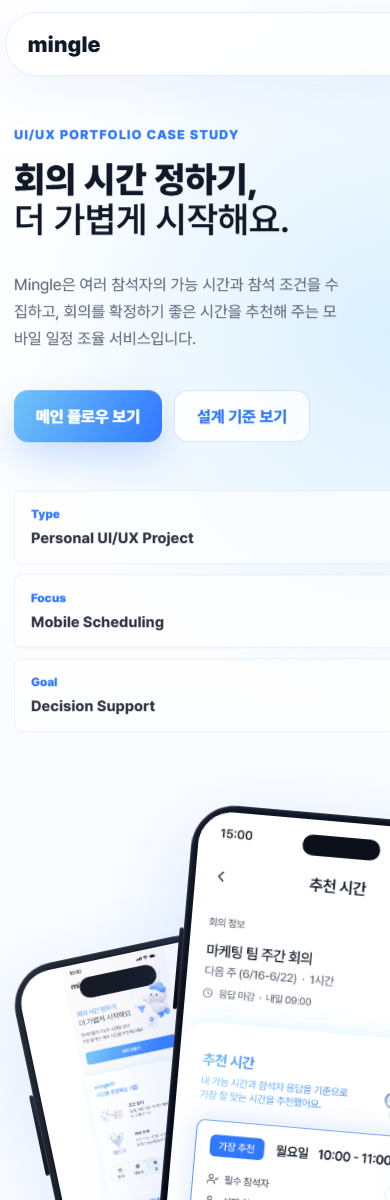
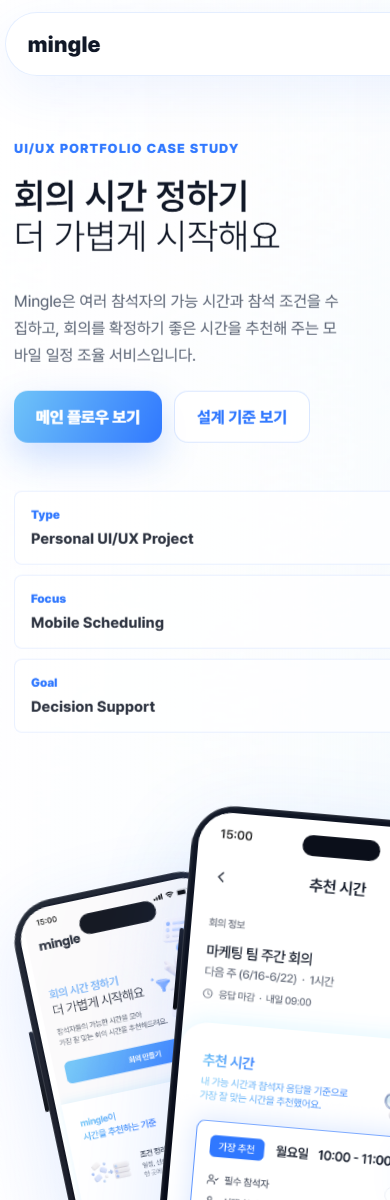
261013 21:35

diff --git a/script.js b/script.js
@@ -38,6 +38,7 @@ let activeFlowIndex = -1;
 let lenis = null;
 let flowScrollTicking = false;
 let heroScrollTicking = false;
+let textFloatTicking = false;
 let flowStageProgress = 0;
 let flowScreenProgress = 0;
 
@@ -144,15 +145,109 @@ const revealObserver = new IntersectionObserver(
     entries.forEach((entry) => {
       if (entry.isIntersecting) {
         entry.target.classList.add("visible");
+        entry.target.querySelectorAll(".splitText .splitChar").forEach((char) => {
+          char.style.animation = "none";
+          char.offsetHeight;
+          char.style.animation = "";
+        });
       } else {
         entry.target.classList.remove("visible");
       }
     });
   },
-  { threshold: 0.14 },
+  { threshold: 0.14, rootMargin: "0px 0px -8% 0px" },
 );
 
 document.querySelectorAll(".revealItem").forEach((item) => revealObserver.observe(item));
+
+function prepareSplitText(element) {
+  if (!element || element.dataset.splitReady === "true") return;
+  const nodes = [...element.childNodes];
+  const fragment = document.createDocumentFragment();
+  let charIndex = 0;
+
+  const appendSplitText = (text, target) => {
+    const lines = text.split("\n");
+    lines.forEach((line, lineIndex) => {
+      if (lineIndex > 0) target.appendChild(document.createElement("br"));
+      const words = line.split(/(\s+)/);
+
+      words.forEach((word) => {
+        if (!word) return;
+        if (/^\s+$/.test(word)) {
+          const space = document.createElement("span");
+          space.className = "splitSpace";
+          space.setAttribute("aria-hidden", "true");
+          target.appendChild(space);
+          return;
+        }
+
+        const wordSpan = document.createElement("span");
+        wordSpan.className = "splitWord";
+        [...word].forEach((char) => {
+          const charSpan = document.createElement("span");
+          charSpan.className = "splitChar";
+          charSpan.style.setProperty("--char-index", charIndex);
+          charSpan.setAttribute("aria-hidden", "true");
+          charSpan.textContent = char;
+          wordSpan.appendChild(charSpan);
+          charIndex += 1;
+        });
+        target.appendChild(wordSpan);
+      });
+    });
+  };
+
+  nodes.forEach((node) => {
+    if (node.nodeType === Node.ELEMENT_NODE && node.tagName === "BR") {
+      fragment.appendChild(node.cloneNode());
+      return;
+    }
+
+    if (node.nodeType === Node.ELEMENT_NODE) {
+      const wrapper = node.cloneNode(false);
+      appendSplitText(node.textContent || "", wrapper);
+      fragment.appendChild(wrapper);
+      return;
+    }
+
+    appendSplitText(node.textContent || "", fragment);
+  });
+
+  const label = element.textContent.trim();
+  element.setAttribute("aria-label", label);
+  element.textContent = "";
+  element.appendChild(fragment);
+  element.classList.add("splitText", "scrollFloat");
+  element.dataset.splitReady = "true";
+}
+
+document
+  .querySelectorAll("#flowTitle")
+  .forEach(prepareSplitText);
+
+function updateScrollFloatText() {
+  textFloatTicking = false;
+  if (prefersReducedMotion) return;
+
+  document.querySelectorAll(".scrollFloat").forEach((element) => {
+    const rect = element.getBoundingClientRect();
+    const center = rect.top + rect.height / 2;
+    const viewportCenter = window.innerHeight / 2;
+    const distance = (center - viewportCenter) / Math.max(1, window.innerHeight);
+    const shift = Math.max(-18, Math.min(18, distance * -34));
+    element.style.setProperty("--float-y", `${shift.toFixed(2)}px`);
+  });
+}
+
+function requestTextFloatUpdate() {
+  if (textFloatTicking) return;
+  textFloatTicking = true;
+  requestAnimationFrame(updateScrollFloatText);
+}
+
+window.addEventListener("scroll", requestTextFloatUpdate, { passive: true });
+lenis?.on("scroll", requestTextFloatUpdate);
 
 function updateFlowByScroll() {
   flowScrollTicking = false;
@@ -205,7 +300,7 @@ function syncFlowScreenScroll() {
   const maxScroll = flowViewport.scrollHeight - flowViewport.clientHeight;
   if (maxScroll <= 0) return;
 
-  const delayedProgress = (flowScreenProgress - 0.36) / 0.18;
+  const delayedProgress = (flowScreenProgress - 0.38) / 0.28;
   const clamped = Math.min(1, Math.max(0, delayedProgress));
   const eased = clamped * clamped * (3 - 2 * clamped);
 
@@ -278,3 +373,4 @@ window.addEventListener(
 
 setActiveFlow(0);
 syncHeroPhoneScroll();
+updateScrollFloatText();

diff --git a/style.css b/style.css
@@ -182,6 +182,7 @@ button { font: inherit; }
   font-size: clamp(30px, 3.4vw, 48px);
   line-height: 1.16;
   font-weight: 800;
+  text-align: left;
   word-break: keep-all;
   text-wrap: balance;
 }
@@ -223,12 +224,13 @@ button { font: inherit; }
   margin: 0;
   font-size: clamp(42px, 5.05vw, 68px);
   line-height: 1.06;
-  font-weight: 850;
+  font-weight: 600;
+  text-align: left;
   word-break: keep-all;
   text-wrap: balance;
 }
-.heroTitle span {
-  font-weight: 520;
+.heroTitle > span:not(.splitWord) {
+  font-weight: 300;
 }
 .heroLead {
   max-width: 680px;
@@ -742,6 +744,7 @@ button { font: inherit; }
   margin: 14px 0 0;
   font-size: clamp(22px, 2.35vw, 32px);
   line-height: 1.2;
+  text-align: left;
   word-break: keep-all;
 }
 .flowStep > p {
@@ -785,7 +788,7 @@ button { font: inherit; }
 }
 .flowMascot {
   left: auto;
-  right: calc(100% - 58px);
+  right: calc(100% - 61px);
   top: clamp(148px, 15vw, 198px);
   width: clamp(124px, 13vw, 190px);
   z-index: 4;
@@ -873,8 +876,8 @@ button { font: inherit; }
   position: relative;
   right: auto;
   bottom: auto;
-  margin: 44px 0 -18px;
-  width: clamp(330px, 36vw, 540px);
+  margin: 40px 0 -12px;
+  width: clamp(300px, 32vw, 480px);
   opacity: 0.94;
   transform: rotate(-4deg);
 }
@@ -1057,15 +1060,15 @@ body.revealReady .revealItem.visible {
   animation: softRise 0.72s ease both;
 }
 body.revealReady .revealItem.visible .eyebrowText,
-body.revealReady .revealItem.visible .sectionTitle,
-body.revealReady .revealItem.visible .sectionLead,
 body.revealReady .revealItem.visible .heroTitle,
+body.revealReady .revealItem.visible .sectionTitle:not(.splitText),
+body.revealReady .revealItem.visible .sectionLead,
 body.revealReady .revealItem.visible .heroLead,
 body.revealReady .flowStep.visible h3,
 body.revealReady .flowStep.visible > p {
   animation: textScrollLift 0.82s cubic-bezier(0.22, 1, 0.36, 1) both;
 }
-body.revealReady .revealItem.visible .sectionTitle,
+body.revealReady .revealItem.visible .sectionTitle:not(.splitText),
 body.revealReady .revealItem.visible .heroTitle,
 body.revealReady .flowStep.visible h3 {
   animation-delay: 0.05s;
@@ -1074,6 +1077,38 @@ body.revealReady .revealItem.visible .sectionLead,
 body.revealReady .revealItem.visible .heroLead,
 body.revealReady .flowStep.visible > p {
   animation-delay: 0.12s;
+}
+.scrollFloat {
+  transform: translate3d(0, var(--float-y, 0px), 0);
+  transition: transform 0.18s linear;
+  will-change: transform;
+}
+.splitText {
+  display: inline-block;
+}
+.sectionTitle.splitText {
+  display: block;
+}
+.splitText .splitLine {
+  display: block;
+}
+.splitText .splitWord {
+  display: inline-block;
+  white-space: nowrap;
+}
+.splitText .splitSpace {
+  display: inline-block;
+  width: 0.28em;
+}
+.splitText .splitChar {
+  display: inline-block;
+  opacity: 1;
+  transform: translate3d(0, 0, 0);
+  will-change: transform, opacity;
+}
+body.revealReady .visible .splitText .splitChar {
+  animation: splitTextRise 0.72s cubic-bezier(0.22, 1, 0.36, 1) both;
+  animation-delay: calc(var(--char-index, 0) * 14ms);
 }
 body.revealReady .sectionMascot.visible {
   animation: mascotPop 0.78s cubic-bezier(0.22, 1, 0.36, 1) both;
@@ -1087,6 +1122,17 @@ body.revealReady .sectionMascot.visible {
 @keyframes textScrollLift {
   from { transform: translateY(16px); }
   to { transform: none; }
+}
+
+@keyframes splitTextRise {
+  from {
+    opacity: 0;
+    transform: translate3d(0, 24px, 0) rotateX(24deg);
+  }
+  to {
+    opacity: 1;
+    transform: translate3d(0, 0, 0) rotateX(0);
+  }
 }
 
 @keyframes mascotPop {
@@ -1134,7 +1180,7 @@ body.revealReady .messageRow:nth-child(3) p { animation-delay: 0.2s; }
   }
   .flowMascot {
     left: auto;
-    right: calc(100% - 36px);
+    right: calc(100% - 39px);
     top: 118px;
     width: 124px;
   }

diff --git a/index.html b/index.html
@@ -41,9 +41,9 @@
         <div class="heroInner pageGrid">
           <div class="heroCopy revealItem">
             <p class="eyebrowText">UI/UX Portfolio Case Study</p>
-            <h1 class="heroTitle" id="heroTitle">회의 시간 정하기<br /><span>더 가볍게 시작해요</span></h1>
+            <h1 class="heroTitle" id="heroTitle">회의 시간 정하기,<br /><span>더 가볍게 시작해요</span></h1>
             <p class="heroLead">
-              Mingle은 여러 참석자의 가능 시간과 참석 조건을 수집하고, 회의를 확정하기 좋은 시간을 추천해 주는 모바일 일정 조율 서비스입니다.
+              반복되는 일정 확인과 비교의 부담을 줄이고 더 빠르고 명확한 회의 시간 결정을 돕는 서비스 mingle
             </p>
             <div class="heroActions">
               <a class="primaryButton magnetic" href="#flowSection">메인 플로우 보기</a>
